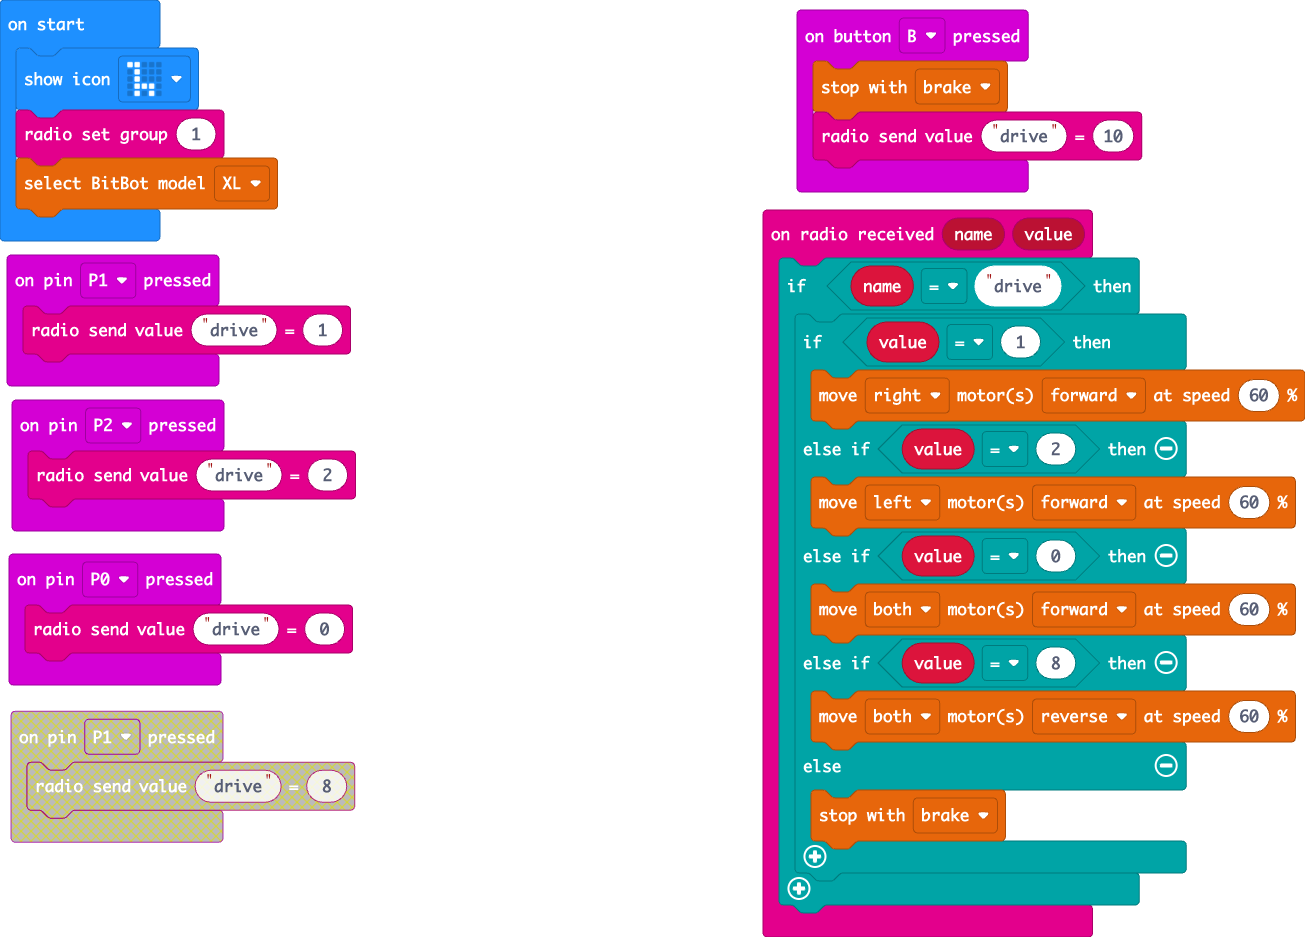
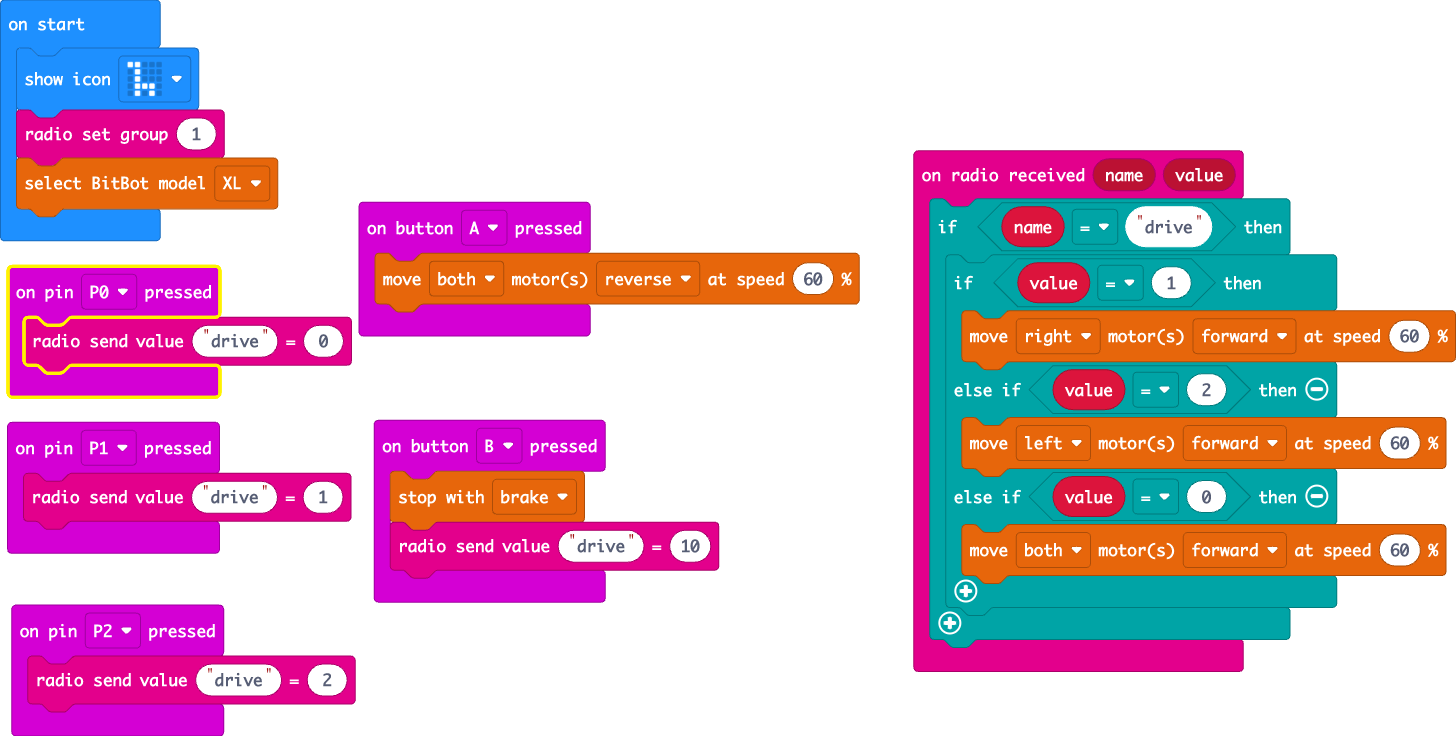
P8 o n press doesnt work, trying new strategy

diff --git a/main.ts b/main.ts
@@ -1,24 +1,20 @@
-function on_pin_pressed_p0() {
+input.onPinPressed(TouchPin.P0, function () {
     radio.sendValue("drive", 0)
-}
-
-input.onPinPressed(TouchPin.P0, on_pin_pressed_p0)
-function on_pin_pressed_p1() {
-    radio.sendValue("drive", 1)
-}
-
-input.onPinPressed(TouchPin.P0, on_pin_pressed_p0)
-input.onPinPressed(TouchPin.P2, function on_pin_pressed_p2() {
+})
+input.onButtonPressed(Button.A, function () {
+    bitbot.move(BBMotor.Both, BBDirection.Reverse, 60)
+})
+input.onPinPressed(TouchPin.P2, function () {
     radio.sendValue("drive", 2)
 })
-input.onPinPressed(TouchPin.P1, function on_pin_pressed_p8() {
-    radio.sendValue("drive", 1)
-})
-input.onButtonPressed(Button.B, function on_button_pressed_b() {
+input.onButtonPressed(Button.B, function () {
     bitbot.stop(BBStopMode.Brake)
     radio.sendValue("drive", 10)
 })
-radio.onReceivedValue(function on_received_value(name: string, value: number) {
+input.onPinPressed(TouchPin.P1, function () {
+    radio.sendValue("drive", 1)
+})
+radio.onReceivedValue(function (name, value) {
     if (name == "drive") {
         if (value == 1) {
             bitbot.move(BBMotor.Right, BBDirection.Forward, 60)
@@ -26,14 +22,8 @@ radio.onReceivedValue(function on_received_value(name: string, value: number) {
             bitbot.move(BBMotor.Left, BBDirection.Forward, 60)
         } else if (value == 0) {
             bitbot.move(BBMotor.Both, BBDirection.Forward, 60)
-        } else if (value == 8) {
-            bitbot.move(BBMotor.Both, BBDirection.Reverse, 60)
-        } else {
-            bitbot.stop(BBStopMode.Brake)
         }
-        
     }
-    
 })
 basic.showIcon(IconNames.Giraffe)
 radio.setGroup(1)

diff --git a/main.py b/main.py
@@ -1,38 +1,31 @@
-def on_pin_pressed_p0():
-    radio.send_value("drive", 0)
-input.on_pin_pressed(TouchPin.P0, on_pin_pressed_p0)
-
-def on_pin_pressed_p1():
-    radio.send_value("drive", 1)
-input.on_pin_pressed(TouchPin.P0, on_pin_pressed_p0)
-
-def on_pin_pressed_p2():
-    radio.send_value("drive", 2)
-input.on_pin_pressed(TouchPin.P2, on_pin_pressed_p2)
-
-def on_pin_pressed_p8():
-    radio.send_value("drive", 1)
-input.on_pin_pressed(TouchPin.P1, on_pin_pressed_p8)
-
-def on_button_pressed_b():
-    bitbot.stop(BBStopMode.BRAKE)
-    radio.send_value("drive", 10)
-input.on_button_pressed(Button.B, on_button_pressed_b)
-
-def on_received_value(name, value):
-    if name == "drive":
-        if value == 1:
-            bitbot.move(BBMotor.RIGHT, BBDirection.FORWARD, 60)
-        elif value == 2:
-            bitbot.move(BBMotor.LEFT, BBDirection.FORWARD, 60)
-        elif value == 0:
-            bitbot.move(BBMotor.BOTH, BBDirection.FORWARD, 60)
-        elif value == 8:
-            bitbot.move(BBMotor.BOTH, BBDirection.REVERSE, 60)
-        else:
-            bitbot.stop(BBStopMode.BRAKE)
-radio.on_received_value(on_received_value)
-
-basic.show_icon(IconNames.GIRAFFE)
-radio.set_group(1)
+input.onPinPressed(TouchPin.P0, function () {
+    radio.sendValue("drive", 0)
+})
+input.onPinPressed(TouchPin.P2, function () {
+    radio.sendValue("drive", 2)
+})
+input.onButtonPressed(Button.B, function () {
+    bitbot.stop(BBStopMode.Brake)
+    radio.sendValue("drive", 10)
+})
+input.onPinPressed(TouchPin.P1, function () {
+    radio.sendValue("drive", 1)
+})
+radio.onReceivedValue(function (name, value) {
+    if (name == "drive") {
+        if (value == 1) {
+            bitbot.move(BBMotor.Right, BBDirection.Forward, 60)
+        } else if (value == 2) {
+            bitbot.move(BBMotor.Left, BBDirection.Forward, 60)
+        } else if (value == 0) {
+            bitbot.move(BBMotor.Both, BBDirection.Forward, 60)
+        } else if (value == 8) {
+            bitbot.move(BBMotor.Both, BBDirection.Reverse, 60)
+        } else {
+            bitbot.stop(BBStopMode.Brake)
+        }
+    }
+})
+basic.showIcon(IconNames.Giraffe)
+radio.setGroup(1)
 bitbot.select_model(BBModel.XL)
